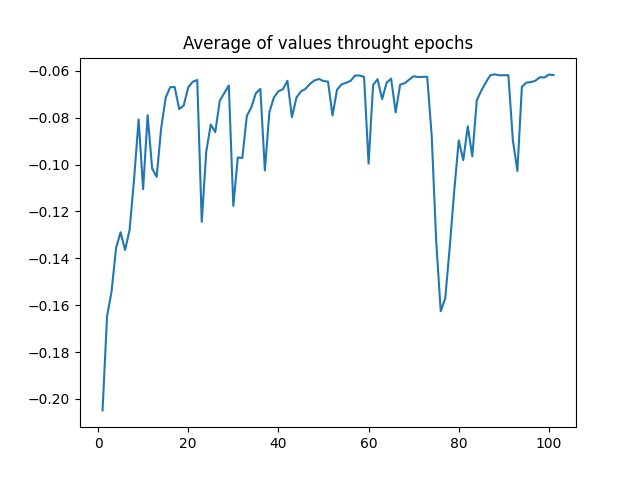
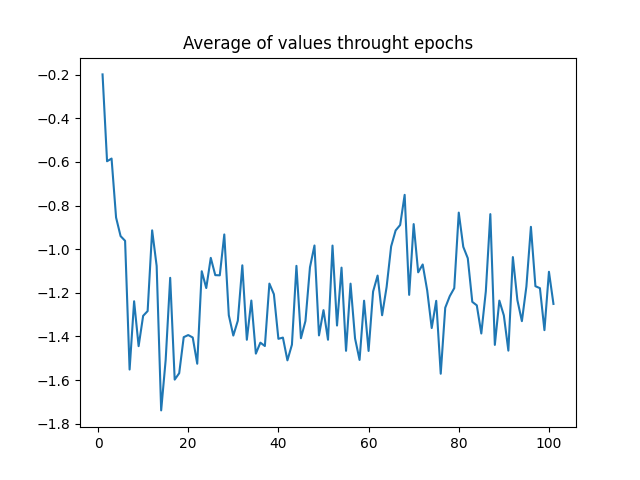
Teoretically working

diff --git a/gui/MainWindow.py b/gui/MainWindow.py
@@ -13,7 +13,7 @@ from PyQt6.QtWidgets import (
 from core.template.template import *
 from core.strategies.strategies import *
 from core.crossings.crossing import *
-from core.mutations.mutation import mutation
+from core.mutations.mutation import *
 from database.DbController import DbController
 from plots.plotting import plot_column
 import time, asyncio
@@ -61,14 +61,15 @@ class MainWindow(QMainWindow):
 
         crossing_method_label = QLabel("Crossing method:")
         self.crossing_method_combo = QComboBox()
-        self.crossing_method_combo.addItem("ONE_POINT")
-        self.crossing_method_combo.addItem("TWO_POINTS")
-        self.crossing_method_combo.addItem("HOMO")
+        self.crossing_method_combo.addItem("Heuristic")
+        self.crossing_method_combo.addItem("Average")
+        self.crossing_method_combo.addItem("Arithmetic")
+        self.crossing_method_combo.addItem("Flat")
 
         mutation_method_label = QLabel("Mutation method:")
         self.mutation_method_combo = QComboBox()
-        self.mutation_method_combo.addItem("ONE_POINT")
-        self.mutation_method_combo.addItem("TWO_POINTS")
+        self.mutation_method_combo.addItem("Gauss")
+        self.mutation_method_combo.addItem("Uniform")
 
         self.maximization_checkbox = QCheckBox("Maximization")
 
@@ -142,14 +143,18 @@ class MainWindow(QMainWindow):
         
         self.progress_bar.setRange(0, epochs)
         percent_value = epochs // 100
-
+        special_cross = False
         match self.crossing_method_combo.currentIndex():
             case 0:
-                cross_function = onePointCrossing
+                cross_function = heuristic_crossover
+                special_cross = True
             case 1:
-                cross_function = twoPointCrossing
+                cross_function = average_crossover
+                special_cross = True
             case 2:
-                cross_function = homogeneousCrossing
+                cross_function = arithmetic_crossing
+            case 3:
+                cross_function = flat_crossing
             
         
         tournament = False
@@ -163,8 +168,13 @@ class MainWindow(QMainWindow):
                 tournament = True
             case 2:
                 select_method = roulette_wheel
+                
+        match self.mutation_method_combo.currentIndex():
+            case 0:
+                mutation = mutation_Gauss
+            case 1:
+                mutation = uniform_mutation
         
-        mutation_points = self.mutation_method_combo.currentIndex() + 1
         
         self.database.clear_data()
         start = time.process_time()
@@ -176,9 +186,13 @@ class MainWindow(QMainWindow):
                 experiment.selection(select_method,selection_amount,maximization, contestants=contestants)
             else:
                 experiment.selection(select_method,selection_amount,maximization)
-              
-            experiment.cross(cross_function, cross_probability)
-            experiment.mutate(mutation, mutation_probability, mutation_points)
+            
+            if special_cross:
+                experiment.cross(cross_function, cross_probability, maximization=maximization, special_cross=special_cross)
+            else:
+                experiment.cross(cross_function, cross_probability, maximization=maximization)
+            
+            experiment.mutate(mutation, mutation_probability)
             experiment.population.add_people(experiment.best_people)
             if not current_epoch % percent_value: 
                 self.update(percent_value, epochs)
@@ -192,7 +206,7 @@ class MainWindow(QMainWindow):
         plot_column(self.database,3)
         
         result = experiment.get_result(maximization)
-        point = (result.chromosomes[0].to_number(), result.chromosomes[1].to_number())
+        point = tuple(result.chromosomes)
         success_info = QMessageBox()
         success_info.setText(
             f"Znaleziono rozwiązanie w {stop - start} sekund. Ma ono współrzedne {point} i wynosi {result.value}"

diff --git a/core/template/template.py b/core/template/template.py
@@ -10,8 +10,12 @@ class Person:
         self.chromosomes = [chromosome_x, chromosome_y]
         self.value = self.fitness_function(self.chromosomes)
 
-    def upadte_value(self):
+    def update_value(self):
         self.value = self.fitness_function(self.chromosomes)
+    
+    def set(self, values : list):
+        self.chromosomes[0] = values[0]
+        self.chromosomes[1] = values[1]
     
     def __str__(self) -> str:
         return str(
@@ -27,6 +31,8 @@ class Person:
 class Population:
     def __init__(self, size: int, start: np.float64, end: np.float64) -> None:
         self.people = [Person((end - start) * np.random.rand() + start, (end - start) * np.random.rand() + start) for _ in range(size)]
+        self.start = start
+        self.end = end
 
     def add_people(self, people):
         for person in people:
@@ -53,13 +59,13 @@ class Experiment:
         self.population = Population(size, start, end)
         self.best_people = []
 
-    def mutate(self, mutation: Callable, probability: float = 0.3, points : int = 1):
+    def mutate(self, mutation: Callable, probability: float = 0.3):
         
         for person in self.population.people:
             chance = np.random.rand()
             
             if chance <= probability:
-                mutation(person.chromosomes, points)
+                mutation(person.chromosomes, self.population.start, self.population.end)
 
     def cross(self, crossing: Callable,  probability : float = 0.8, **kwargs):
         population_len = len(self.population.people)
@@ -74,16 +80,24 @@ class Experiment:
             
             if chance <= probability:
                 chromosomes_1 = self.people_for_crossing[index_1].chromosomes
-
                 chromosomes_2 = self.people_for_crossing[index_2].chromosomes
                 
-                crossing(chromosomes_1, chromosomes_2)
-                
-                self.population.people[counter].upadte_value()
-                counter += 1
-                
-                self.population.people[counter].upadte_value()
-                counter += 1
+                ind = crossing(chromosomes_1, chromosomes_2, self.population.start, self.population.end, maximization=kwargs["maximization"])
+                if ind:
+                    if "special_cross" in kwargs:
+                        self.population.people[counter].set(ind)
+                        self.population.people[counter].update_value()
+                        counter += 1
+                        
+                    else:
+                        ind = list(ind)
+                        self.population.people[counter].set(ind.pop())
+                        self.population.people[counter].update_value()
+                        counter += 1
+                    
+                        self.population.people[counter].set(ind.pop())
+                        self.population.people[counter].update_value()
+                        counter += 1
         self.population.people = self.population.people[:target_population]
 
     def selection(

diff --git a/core/crossings/crossing.py b/core/crossings/crossing.py
@@ -3,7 +3,7 @@ import numpy.random
 import random
 import benchmark_functions as bf
 
-def check_range(number1, number2, downLimit : float, upperLimit : float):
+def check_range(number1, number2, downLimit : float, upperLimit : float, **kwargs):
 
     if (number1[0] > downLimit and number1[1] > downLimit):
         if (number2[0] > downLimit and number2[1] > downLimit):
@@ -28,41 +28,37 @@ def check_range(number1, number2, downLimit : float, upperLimit : float):
 #         return number1  # ?????????? idk czy to dobry warunek ale idk co robic kiedy jest x1>x2 a y1<y2
 #     return pot1
 
-def heuristic_crossover(number1, number2, maximalization=True):
+def heuristic_crossover(number1, number2, downLimit : float, upperLimit : float, maximalization=True, **kwargs):
     pot = []
-    fitness_1 = bf.Michalewicz(*number1)
-    fitness_2 = bf.Michalewicz(*number2)
+    fitness = bf.Michalewicz()
+    fitness_1 = fitness(number1)
+    fitness_2 = fitness(number2)
     alfa = numpy.random.uniform(0, 1)
     if maximalization and fitness_2 > fitness_1:
-        pot[0] = number1[0] + alfa*(number1[1] - number1[0])
-        pot[1] = number2[0] + alfa*(number2[1] - number2[0])
+        pot.append(number1[0] + alfa*(number1[1] - number1[0]))
+        pot.append(number2[0] + alfa*(number2[1] - number2[0]))
 
     # tego nie bylo w pdf ale jest w ksiazce
     elif not maximalization and fitness_2 < fitness_1:
-        pot[0] = number1[1] + alfa * (number1[0] - number1[1])
-        pot[1] = number2[1] + alfa * (number2[0] - number2[1])
+        pot.append(number1[0] + alfa*(number1[1] - number1[0]))
+        pot.append(number2[0] + alfa*(number2[1] - number2[0]))
 
     else:
         return None  # ?????????? idk czy to dobry warunek ale idk co robic kiedy jest x1>x2 a y1<y2
     return pot
 
 
-def average_crossover(*args):
-    n = len(args)
+def average_crossover(number1, number2, downLimit : float, upperLimit : float, **kwargs):
     pot = []
-    sumx = 0
-    sumy = 0
+    sumx = number1[0] + number2[0]
+    sumy = number1[1] + number2[1]
 
-    for arg in args:
-        sumx += arg[0]
-        sumy += arg[1]
-
-    pot[0] = sumx / n
-    pot[1] = sumy / n
+    pot.append(sumx / 2)
+    pot.append(sumy / 2)
 
     return pot
 
-def arithmeti_crossing(number1, number2, downLimit : float, upperLimit : float):
+def arithmetic_crossing(number1, number2, downLimit : float, upperLimit : float, **kwargs):
 
     while (1):
         k = 0
@@ -82,7 +78,7 @@ def arithmeti_crossing(number1, number2, downLimit : float, upperLimit : float):
     
     return newNumber1, newNumber2
 
-def flat_crossing(number1, number2, downLimit : float, upperLimit : float):
+def flat_crossing(number1, number2, downLimit : float, upperLimit : float, **kwargs):
 
     while (1):
         newNumber1 = []

diff --git a/core/strategies/strategies.py b/core/strategies/strategies.py
@@ -1,4 +1,5 @@
 from core.template.template import Population, Person
+from copy import deepcopy
 import numpy as np
 
 
@@ -8,7 +9,7 @@ def best_selection(
     sample = sorted(
         population.people, reverse=maximization, key=lambda person: person.value
     )[:amount]
-    return sample
+    return deepcopy(sample)
 
 
 def tournament_selection(
@@ -27,7 +28,7 @@ def tournament_selection(
         else:
             best_contestant = min(tournament, key=lambda person: person.value)
         sample.append(best_contestant)
-    return sample
+    return deepcopy(sample)
 
 
 def roulette_wheel(
@@ -69,4 +70,4 @@ def roulette_wheel(
                 break
             distribution += prob
 
-    return sample
+    return deepcopy(sample)

diff --git a/core/mutations/mutation.py b/core/mutations/mutation.py
@@ -1,6 +1,5 @@
 import numpy as np
 import random
-from core.template.template import Chromosome
 
 def mutation_Gauss(ind, start, end):
     avg = 0
@@ -20,9 +19,6 @@ def mutation_Gauss(ind, start, end):
         ind[1] = def_ind1
 
 def uniform_mutation(number1, downLimit, upperLimit):
-
-    newNumber1 = number1  
+  
     randomMutation = random.randint(0, 1) 
-    newNumber1[randomMutation] = random.uniform(downLimit, upperLimit)
-        
-    return newNumber1
+    number1[randomMutation] = random.uniform(downLimit, upperLimit)

diff --git a/main.py b/main.py
@@ -1,7 +1,3 @@
-from core.template.template import *
-from core.strategies.strategies import *
-from core.mutations.mutation import mutation
-
 from gui.MainWindow import MainWindow
 from PyQt6.QtWidgets import QApplication
 import sys
